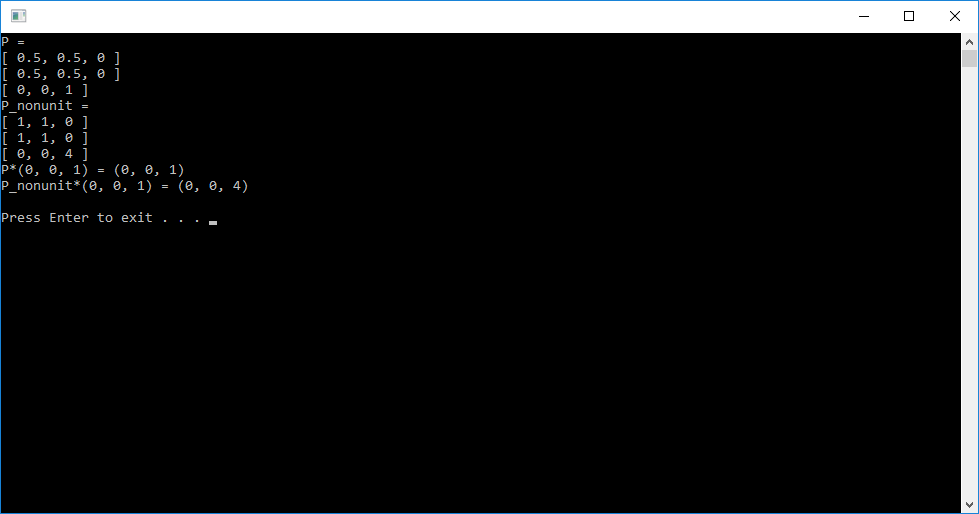
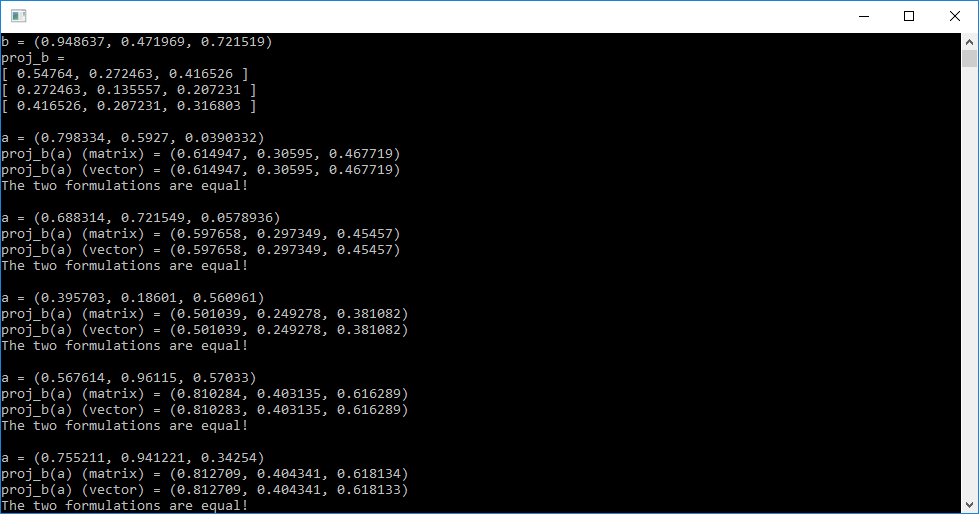
Add substantial sections regarding projection as a matrix and rejection

diff --git a/source/main.cpp b/source/main.cpp
@@ -41,94 +41,204 @@ int main()
 	// Required for some helper functions
 	srand((unsigned)time(0));
 
-	// Previously we examined the idea that vectors can be projected onto by using a matrix operation,
-	//  where the matrix is constructed by taking the outer product of the vector we want to project onto with itself.
-	// We proved this by showing that, if the vector we project onto is a unit vector, then Dot(b, a)*b == Outer(b, b)*a
-	// Suppose we could extend this idea to more than one vector?
+	////////////////////////////
+	// Projection as a matrix //
+	////////////////////////////
+	{
+		/*
+		In [math-vector-projection], we examined the act of projecting one vector onto another.
+		We showed that proj is a function taking two vectors and returning another, defined as
+		 proj_b(a) = (Dot(a, b) / Dot(b, b)) * b
+		
+		Suppose we want to project MANY vectors onto a single vector.
+		In particular, could we represent it as a matrix?
+		The answer is yes!
+		
+		First we need to introduce yes another vector operation called the Outer product.
+		 (As opposed to the Inner product (dot product)).
+		Let u be an m by 1 column vector and v be an n by 1 column vector.
+		Then Outer(u, v) := u * Transpose(v), yielding an m by n matrix where the (i, j) element equals u_i * v_j
+		
+		In addition, recall that Dot(u, v) can be realized as Transpose(u) * v.
+		
+		Then,
+		proj_b(a) = ((Dot(a, b) / Dot(b, b)) * b
+		= 1/|b|^2 * Dot(a, b) * b (Dot(b, b) = 1/|b|^2)
+		= 1/|b|^2 * b * Dot(a, b) (Scalar multiplication is commutative in vectors over a field)
+		= 1/|b|^2 * b * Dot(b, a) (Dot(a, b) = Dot(b, a) when the underlying field is the reals)
+		= 1/|b|^2 * b * (Transpose(b) * a) (Dot(a, b) = Transpose(a) * b)
+		= 1/|b|^2 * (b * Transpose(b)) * a (Associativity of matrix multiplication)
+		= 1/|b|^2 * Outer(b, b) * a (Definition of Outer product)
+		
+		Then we can realize proj_b as a matrix by itself that equals Outer(b, b) / Dot(b, b) !
+		
+		This has the benefit that we can project many vectors onto a single vector simply with matrix multiplication.
+		*/
 
-	// Recall that when a vector space is equipped with a basis, any element of the space can be uniquely written
-	//  as a linear combination of the basis vectors.
-	// This is also true for subspaces.
+		Vector3D b(randFloat(0, 1), randFloat(0, 1), randFloat(0, 1));
+		std::cout << "b = " << b << "\n";
 
-	// Suppose that u_1, u_2, ..., u_k is an orthonormal basis for a subspace U of Rn.
-	// We then have by definition that every u in U can be written as a unique linear combination of u_1, u_2, ..., u_k.
-	// To project onto this subspace we can take a similar approach to the 1D subspace case (projecting onto a single vector):
-	//  each vector v can be projected onto the kD subspace as Sum_{i=1}^{k} Project(v, u_i) = Dot(u_i, v) * u_i = Outer(u_i, u_i) * v
-	// Factoring out the v we arrive at the fact that to project onto any subspace spanned by an orthonormal basis,
-	//  we just need to take the outer product of each basis vector and sum the results.
+		Matrix3D proj_b = MakeProjection(b);
+		std::cout << "proj_b =\n" << proj_b << "\n";
 
-	// But we can get even faster than that!
-	// It turns out that our friend the outer product which we initially defined only for vectors can be extended to matrices with similar meaning.
+		for (int i = 0; i < 5; i++)
+		{
+			Vector3D a(randFloat(0, 1), randFloat(0, 1), randFloat(0, 1));
+			std::cout << "a = " << a << "\nproj_b(a) (matrix) = " << proj_b * a << "\nproj_b(a) (vector) = " << Project(a, b) << "\n";
+			if (MagSquared((proj_b * a) - Project(a, b)) < FLT_EPSILON)
+			{
+				std::cout << "The two formulations are equal!\n\n";
+			}
+		}
 
-	// Let the matrix A have columns u_1, u_2, ..., u_k.
-	// Then define P := A*Transpose(A).  P is then the projection matrix onto the subspace spanned by u_i.
+		// Note, however, that when projecting just one vector onto another vector, the dot product version is actually faster.
 
-	// To show that the two are equal, let's look at a low-dimensional example.
-	// Suppose we are in R3 and want to project onto a 2D plane spanned by u and v, such that |u| = |v| = 1 and Dot(u, v) = 0.
-	//  (That is, u and v form an orthonormal basis).
-	// Define A as
-	// A = [ u v ]
-	// =>
-	// [ u_1 v_1 ]
-	// [ u_2 v_2 ]
-	// [ u_3 v_3 ]
-	// Then P = A * Transpose(A) = 
-	// [ u_1^2+v_1^2  u_12+v_12  u_13+v_13 ]
-	// [ u_12+v_12  u_2^2+v_2^2  u_23+v_23 ]
-	// [ u_13+v_13  u_23+v_23  u_3^2+v_3^2 ]
-	// = Outer(u, u) + Outer(v, v)
+		/*
+		Projection as currying (optional):
 
-	// However, in the name of brevity at the expense of completeness, we don't have a mat2x3 or mat3x2 struct to work with.
-	// (GLM, on the other hand, does, so if you're using GLM you needn't concern yourself with the following.)
-	// So how can we make this calculation with nothing but square matrices?
-	// The answer is we pad our matrix with zeroes.
-	// So for example, in R3, we would instead have A = [ u v 0 ].
+		When considering proj as a function, the vector formulation takes in to vectors and returns another.
+		Formally, we write this as proj : V x V -> V
+		We said earlier that a matrix represents a function between vector spaces.
+		Formally, if A is an m by n matrix over the reals, then A : Rn -> Rm.
+		So the matrix formulation of proj, being that it returns a matrix, in essence returns a function.
+		Formally, proj : V -> (V -> V).
+		Note that the number of parameters has decreased by one but our function returns a function that takes one parameter.
+		This is an example of a process called "currying," and if you ever want to study functional programming, you'll need to know it.
+		*/
+	}
+	std::cout << "Press Enter to continue . . .\n";
+	std::cin.get();
 
-	// Consider the following:
-	// Suppose we want to project onto the span of u and v:
+	////////////////////////////////
+	// Projection onto a subspace //
+	////////////////////////////////
+	{
+		/*
+		Previously we examined the idea that vectors can be projected onto by using a matrix operation,
+		Suppose we could extend this idea to more than one vector?
 
-	Vector3D u(1 / sqrtf(2), 1 / sqrtf(2), 0);
-	Vector3D v(0, 0, 1);
+		Recall that when a vector space is equipped with a basis, any element of the space can be uniquely written
+		 as a linear combination of the basis vectors.
+		This is also true for subspaces.
 
-	// Then
+		Suppose that u_1, u_2, ..., u_k is an orthonormal basis for a subspace U of Rn.
+		We then have by definition that every u in U can be written as a unique linear combination of u_1, u_2, ..., u_k.
+		To project onto this subspace we can take a similar approach to the 1D subspace case (projecting onto a single vector):
+		 each vector v can be projected onto the kD subspace as Sum_{i=1}^{k} Project(v, u_i) = Dot(u_i, v) * u_i = Outer(u_i, u_i) * v
+		Factoring out the v we arrive at the fact that to project onto any subspace spanned by an orthonormal basis,
+		 we just need to take the outer product of each basis vector and sum the results.
 
-	Matrix3D A(u, v, Vector3D());
+		But we can get even faster than that!
+		It turns out that our friend the outer product which we initially defined only for vectors can be extended to matrices with similar meaning.
 
-	// And
+		Let the matrix A have columns u_1, u_2, ..., u_k.
+		Then define P := A*Transpose(A).  P is then the projection matrix onto the subspace spanned by u_1, u_2, ..., u_k.
 
-	Matrix3D P = A * Transpose(A);
+		To show that the two are equal, let's look at a low-dimensional example.
+		Suppose we are in R3 and want to project onto a 2D plane spanned by u and v, such that |u| = |v| = 1 and Dot(u, v) = 0.
+		 (That is, u and v form an orthonormal basis).
+		Define A as
+		A = [ u v ]
+		=>
+		[ u_1 v_1 ]
+		[ u_2 v_2 ]
+		[ u_3 v_3 ]
+		Then P = A * Transpose(A) = 
+		[ u_1^2+v_1^2  u_12+v_12  u_13+v_13 ]
+		[ u_12+v_12  u_2^2+v_2^2  u_23+v_23 ]
+		[ u_13+v_13  u_23+v_23  u_3^2+v_3^2 ]
+		= Outer(u, u) + Outer(v, v)
 
-	std::cout << "P =\n" << P;
+		However, in the name of brevity at the expense of completeness, we don't have a mat2x3 or mat3x2 struct to work with.
+		(GLM, on the other hand, does, so if you're using GLM you needn't concern yourself with the following.)
+		So how can we make this calculation with nothing but square matrices?
+		The answer is we pad our matrix with zeroes.
+		So for example, in R3, we would instead have A = [ u v 0 ].
+		*/
 
-	// !!REMEMBER!! The basis vectors are assumed to be unit length!
-	// If they are not, then there will be distortion in the image of the matrix.
-	// For example,
+		// Consider the following:
+		// Suppose we want to project onto the span of u and v:
 
-	Vector3D u_nonunit(1, 1, 0);
-	Vector3D v_nonunit(0, 0, 2);
-	Matrix3D A_nonunit(u_nonunit, v_nonunit, Vector3D());
-	Matrix3D P_nonunit = A_nonunit * Transpose(A_nonunit);
+		Vector3D u(1 / sqrtf(2), 1 / sqrtf(2), 0);
+		Vector3D v(0, 0, 1);
 
-	std::cout << "P_nonunit =\n" << P_nonunit;
+		// Then
 
-	// To see the distortion, consider a = (0, 0, 1).
-	// a is clearly already in the subspace spanned by u and v, so P is the identity on a.
-	// (Indeed, P is the identity on its image (P^2 = P))
+		Matrix3D A(u, v, Vector3D());
 
-	std::cout << "P*(0, 0, 1) = " << P * Vector3D(0, 0, 1) << "\n";
+		// And
 
-	// However,
+		Matrix3D P = A * Transpose(A);
 
-	std::cout << "P_nonunit*(0, 0, 1) = " << P_nonunit * Vector3D(0, 0, 1) << "\n";
+		std::cout << "P =\n" << P;
 
-	// A stretching by a factor of 4!
-	// Clearly this is undesirable.
+		// !!REMEMBER!! The basis vectors are assumed to be unit length!
+		// If they are not, then there will be distortion in the image of the matrix.
+		// For example,
 
-	// This can be fixed in one of two ways:
-	// 1) instead of P = A*Transpose(A), define P' = A * Inverse(Transpose(A)*A) * Transpose(A)
-	//    Clearly this is very computationally intensive and undesirable.
-	//    IN ADDITION THIS WILL NOT WORK IF THE ZERO VECTOR IN INCLUDED AS IN THE "TRICK" ABOVE
-	// 2) Normalize the vectors *before* constructing the projection matrix.
+		Vector3D u_nonunit(1, 1, 0);
+		Vector3D v_nonunit(0, 0, 2);
+		Matrix3D A_nonunit(u_nonunit, v_nonunit, Vector3D());
+		Matrix3D P_nonunit = A_nonunit * Transpose(A_nonunit);
+
+		std::cout << "P_nonunit =\n" << P_nonunit;
+
+		// To see the distortion, consider a = (0, 0, 1).
+		// a is clearly already in the subspace spanned by u and v, so P is the identity on a.
+		// (Indeed, P is the identity on its image (P^2 = P))
+
+		std::cout << "P*(0, 0, 1) = " << P * Vector3D(0, 0, 1) << "\n";
+
+		// However,
+
+		std::cout << "P_nonunit*(0, 0, 1) = " << P_nonunit * Vector3D(0, 0, 1) << "\n\n";
+
+		// A stretching by a factor of 4!
+		// Clearly this is undesirable.
+
+		// This can be fixed in one of two ways:
+		// 1) instead of P = A*Transpose(A), define P' = A * Inverse(Transpose(A)*A) * Transpose(A)
+		//    Clearly this is very computationally intensive and undesirable.
+		//    IN ADDITION THIS WILL NOT WORK IF THE ZERO VECTOR IN INCLUDED AS IN THE "TRICK" ABOVE
+		// 2) Normalize the vectors *before* constructing the projection matrix.
+	}
+	std::cout << "Press Enter to continue . . .\n";
+	std::cin.get();
+
+	//////////////////////////
+	// Rejection revisisted //
+	//////////////////////////
+	{
+		/*
+		Similarly to projection as above, recall that we have from vector rejection that
+		reject_b(a) = a - proj_b(a).
+
+		We can pull a similar trick by inserting the identity matrix before a (multiplication by the identity doesn't change the result).
+		Then
+		reject_b(a) = I*a - proj_b(a)
+		
+		Factoring out the a yields
+		reject_b(a) = (I - proj_b) * a
+
+		So just as with projection, we now have a way to represent rejection as a matrix!
+		*/
+
+		Vector3D b(randFloat(0, 1), randFloat(0, 1), randFloat(0, 1));
+		std::cout << "b = " << b << "\n";
+
+		Matrix3D reject_b = MakeRejection(b);
+		std::cout << "reject_b =\n" << reject_b << "\n";
+
+		for (int i = 0; i < 5; i++)
+		{
+			Vector3D a(randFloat(0, 1), randFloat(0, 1), randFloat(0, 1));
+			std::cout << "a = " << a << "\nreject_b(a) (matrix) = " << reject_b * a << "\nreject_b(a) (vector) = " << Reject(a, b) << "\n";
+			if (MagSquared((reject_b * a) - Reject(a, b)) < FLT_EPSILON)
+			{
+				std::cout << "The two formulations are equal!\n\n";
+			}
+		}
+	}
 
 	std::cout << "\nPress Enter to exit . . . ";
 	std::cin.get();

diff --git a/README.md b/README.md
@@ -1,10 +1,12 @@
-# Matrix Projection
+# Matrix Projection and Rejection
 
 Previously, vector projection was introduced and explored. However, this is only good to project onto one vector.
 
+Now that we have matrices, the question must be asked "Can projection be represented as a matrix?"
+
 What if we instead want to project onto a subspace spanned by multiple vectors? E.g. what if we want to project onto a 2D plane in R3?
 
-Indeed, we will see that vector projection with the outer product is one specific case of the general method of projection introduced here.
+Indeed, we will see that vector projection can be represented as a matrix, and the process can be extended.
 
 # Setup
 
